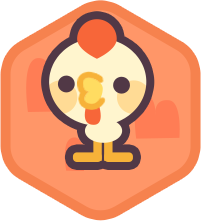
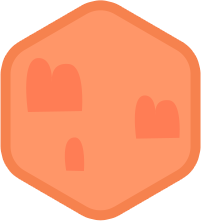
花朵格子拆分

Changed region(s): [[0.1791, 0.0271, 0.7761, 0.7873]]

diff --git a/style.css b/style.css
@@ -405,6 +405,32 @@ body::before {
   pointer-events: none;
 }
 
+.tile__image-stack {
+  position: relative;
+  display: block;
+  width: 100%;
+  height: 100%;
+}
+
+.tile__image--base {
+  object-fit: fill;
+}
+
+.tile__image--layer {
+  position: absolute;
+  inset: 0;
+}
+
+.tile__image--flower {
+  z-index: 1;
+  width: 82%;
+  height: auto;
+  inset: calc(10% - 10px) auto auto 50%;
+  transform: translateX(-50%);
+  object-fit: contain;
+  transform-origin: top center;
+}
+
 .tile--start .tile__ring {
   opacity: 0;
   transform: scale(1.03);

diff --git a/app.js b/app.js
@@ -38,6 +38,7 @@ const tileAssetMap = {
   enemy: "./assets/tiles/tile-enemy.png",
   flower: "./assets/tiles/tile-flower.png",
 };
+const flowerOverlayAsset = "./assets/tiles/flower_01.png";
 const collectFeedbackConfig = {
   flyDuration: 1000,
   launchInterval: 140,
@@ -1401,6 +1402,19 @@ function getTileAsset(tileState) {
   return tileAssetMap[getTileVisualType(tileState)] ?? tileAssetMap.hidden;
 }
 
+function getTileVisualMarkup(tileState, fallbackAsset) {
+  if (tileState?.revealed && tileState.type === "flower") {
+    return `
+      <span class="tile__image-stack tile__image-stack--flower">
+        <img class="tile__image tile__image--base" src="${tileAssetMap.empty}" alt="" />
+        <img class="tile__image tile__image--layer tile__image--flower" src="${flowerOverlayAsset}" alt="" />
+      </span>
+    `;
+  }
+
+  return `<img class="tile__image" src="${fallbackAsset}" alt="" />`;
+}
+
 function getCurrentTileId() {
   if (gameState.currentPath.length === 0) {
     return gameState.currentStartTileId;
@@ -1555,10 +1569,10 @@ function createTileElement(tile) {
         <img class="tile__image" src="${tileAssetMap.hidden}" alt="" />
       </span>
       <span class="tile__face tile__face--back" aria-hidden="true">
-        <img class="tile__image" src="${tileAsset}" alt="" />
+        ${getTileVisualMarkup(state, tileAsset)}
       </span>
     `
-    : `<img class="tile__image" src="${tileAsset}" alt="" />`;
+    : getTileVisualMarkup(state, tileAsset);
 
   button.innerHTML = `
     <span class="tile__ring" aria-hidden="true"></span>

diff --git a/A-PLN.md b/A-PLN.md
@@ -1,0 +1,108 @@
+# A-PLN 记录
+
+## 项目文档现状
+- 项目路径：`/Users/vvvvv/Desktop/个人项目/Collection`
+- 已存在：`B-COD.md`、`B-FIX.md`
+- 当前缺失：`A-PLN.md`（本轮新建）、`A-SRC.md`、`A-ASK.md`、`C-EYE.md`、`C-EDU.md`
+
+## NotebookLM 前置结论
+- 已询问 NotebookLM：希望获取“把小花格子从单张图改为 `tile-empty.png + flower_01.png` 双层叠加、且不改玩法/数据结构”的项目级建议。
+- 结果：当前 notebook 只有通用 HTML5 UI 资料，回答持续偏题，未能提供可靠项目结论。
+- 已继续追问缺失资料；NotebookLM 仍未返回有效、贴合当前项目的资料清单。
+- 因此本轮计划以**项目内现有代码与文档**为准，不把 notebook 回答当作实施依据。
+
+## 本轮任务定义
+- 任务 ID：`A-PLN-ART-TILE-FLOWER-01`
+- 目标：将当前 `flower` 格子的显示资源从单张 `tile-flower.png` 改为双层拼装：
+  - 底图：`assets/tiles/tile-empty.png`
+  - 前景：`assets/tiles/flower_01.png`
+- 边界：
+  - 不改玩法逻辑
+  - 不改 `tileState.type` / `tileTypeCounts` / 随机分布
+  - 不改交互判定、路径、数值、音效链路
+  - 只改资源呈现方式与相关最小样式
+
+## 已确认的项目内现状
+- `app.js:35-40`
+  - 当前 `tileAssetMap.flower = "./assets/tiles/tile-flower.png"`
+- `app.js:1400-1402`
+  - `getTileAsset()` 仍按单张图返回资源路径
+- `app.js:1493-1575`
+  - `createTileElement()` 当前通过单个 `<img class="tile__image">` 渲染格子图
+- `style.css:398-405`
+  - `.tile__image` 已是统一图片节点入口，适合扩展为“底图 + 前景”双图层
+- 资源目录现状：
+  - 已存在 `assets/tiles/tile-empty.png`
+  - 已存在 `assets/tiles/tile-flower.png`
+  - 已存在 `assets/tiles/flower_01.png`
+- 结论：
+  - 当前 `flower_01.png` 已入库但未接入显示
+  - 本次最小改法应集中在 `createTileElement()` + 对应 CSS，不必改数据结构
+
+## 主框架任务（先做）
+### 模块 M1：小花格子显示改为双层拼装
+- 负责人类型：`@B-COD`
+- 主导权：仅 `@B-COD`
+- 依赖：无
+- 实施建议：
+  1. 保留 `flower` 作为逻辑类型，不改 `tileAssetMap` 的其它类型
+  2. 在 `createTileElement()` 中，对 `revealed && state.type === "flower"` 走单独渲染分支
+  3. 输出结构建议：
+     - `<img class="tile__image tile__image--base" src="./assets/tiles/tile-empty.png">`
+     - `<img class="tile__image tile__image--flower" src="./assets/tiles/flower_01.png">`
+  4. 非 `flower` 类型继续沿用当前单图渲染链路
+- 完成判定：
+  - 花格只在显示层改为双图叠加
+  - `empty / hidden / enemy` 显示不回归
+  - `flower` 的逻辑行为与当前一致
+- 是否需要人工检查：是
+
+## 跟进模块（M1 后做）
+### 模块 M2：视觉回归与最小样式校正
+- 负责人类型：`@B-FIX`
+- 主导权：仅 `@B-FIX`
+- 依赖：M1 完成后再接
+- 检查点：
+  - `flower_01.png` 是否居中
+  - 是否因透明留白导致视觉偏上/偏下
+  - 与 `tile-empty.png` 叠加后是否出现白边、拉伸、锯齿
+  - 翻牌态 `tile--flipping` 前后两面是否都正确显示花层
+- 完成判定：
+  - 人眼对比下，小花格子稳定显示为“草地 + 花”
+  - 不出现 hover/path/start/fail 等状态把花层遮掉的情况
+- 是否需要人工检查：是
+
+## 不在本轮范围内
+- 删除 `tile-flower.png`
+- 改动地图布局、镜头留白、危险数字样式
+- 新增动画、粒子、额外反馈
+- 改 atlas / 改资源打包策略
+
+## 建议实现口径
+- 优先最小改动，不新增新的逻辑 type
+- 若要避免硬编码，可新增常量：
+  - `const flowerOverlayAsset = "./assets/tiles/flower_01.png";`
+- 若翻牌正反面都需要支持双层，建议把“花格 inner HTML”抽成小函数，避免正面/背面模板重复改漏
+
+## 验收标准
+1. 调试模式或正常游玩时，所有 `flower` 格都显示为：草地底图 + 小花前景
+2. `empty` 格仍只显示 `tile-empty.png`
+3. 进入 `flower` 格仍正常加花蜜、触发现有飞花/Combo/音效
+4. `node --check app.js` 通过
+5. 浏览器人工检查通过以下场景：
+   - 普通 revealed 花格
+   - 翻牌中的花格前后面
+   - 路径高亮中的花格
+   - 调试模式下多花格并列显示
+
+## 当前阶段 handoff
+- 任务 ID：`A-PLN-ART-TILE-FLOWER-01`
+- 目标：把 `flower` 格从单张 `tile-flower.png` 改为 `tile-empty.png + flower_01.png` 双层显示
+- 当前状态：已完成项目内定位与拆解，等待 `@B-COD` 实施
+- 下一步：
+  1. `@B-COD` 先改 `app.js` / `style.css`
+  2. 自检 `node --check app.js`
+  3. 回流 `@B-FIX` 做视觉回归
+- 阻塞：
+  - NotebookLM 当前无项目专属资料，无法给出 notebook-grounded 建议
+  - 仍需浏览器人工查看 `flower_01.png` 的最终叠放位置是否符合预期

diff --git a/B-FIX.md b/B-FIX.md
@@ -188,6 +188,34 @@
 - `style.css` 中对应文本徽标样式定义仍保留，但当前已无起点文本 DOM 引用
 - 原因：本轮先做最小移除，避免连带影响其他潜在 badge 用途
 
+## 本轮新增修复：按参考图重调花层位置与大小，并消除形变
+### 复现条件
+- 当前 flower 格已切到“双层资源叠加”，但前景花看起来被拉长、位置偏满，和参考图中的花大小与锚点不一致
+
+### 根因判断
+- 通用 `.tile__image` 规则对所有图片统一使用 `width: 100%`、`height: 100%`、`object-fit: fill`
+- 该规则适合完整地块底图，不适合 `flower_01.png` 这种独立前景素材
+- `flower_01.png` 实际尺寸为 `165 x 160`，被强行拉伸到 tile 的 `112 x 124` 比例后，会产生非等比形变
+
+### 已执行修复
+- 保持底图 `tile-empty.png` 继续铺满整格
+- 单独覆盖 `.tile__image--flower`：
+  - 改为按素材比例显示，使用 `height: auto` + `object-fit: contain`
+  - 缩小到约 `82%` 宽度，避免花层占满整格
+  - 调整到格子上半部居中偏上的锚点，贴近参考图观感
+
+### 本轮改了哪些文件
+- `style.css`
+- `B-FIX.md`
+
+### 最小验证
+- `node --check app.js` 通过
+- 静态复核确认：flower 前景层不再沿用整格拉伸规则，底图与前景已分离使用不同缩放策略
+
+### 本轮未修问题
+- 浏览器人工对照参考图的最终位置与大小尚未逐帧确认
+- 原因：当前会话未直接打开浏览器做视觉验收；本轮先完成样式层修正与静态校验
+
 ## 给 B-COD 的提醒
 - 不要继续在 `.tile__inner` 上叠加旧占位风格描边
 - 不要再用 `background` 简写覆盖贴图

diff --git a/B-COD.md b/B-COD.md
@@ -1,12 +1,16 @@
 # B-COD 记录
 
 ## Claim
-- 任务 ID：B-COD-DEMO-FEEDBACK-003
-- 当前 claim：模块《花朵采集连击反馈（Combo System）》
-- 范围：接入全局 Combo UI、按采花累计的连击状态、2.5 秒超时结束、升级音效与强化档样式；不改收益数值、飞花主逻辑、移动端专项适配
+- 任务 ID：A-PLN-ART-TILE-FLOWER-01
+- 当前 claim：模块 M1《小花格子双层资源叠加显示》
+- 范围：仅修改 flower 格显示层，将单张 `tile-flower.png` 改为 `tile-empty.png + flower_01.png` 双层渲染；不改玩法逻辑、数据结构、类型定义、判定与音效链路
 - 历史 claim 已闭环：`B-COD-DEMO-FEEDBACK-001`（花朵采集反馈）、`B-COD-DEMO-FEEDBACK-002`（自定义光标）、`B-COD-DEMO-FEEDBACK-002-A`（光标资源接入）、`SFX-01`（翻格音效）、`SFX-02`（撞天敌音效）、`FX-01`（采集范围高亮）、`B-COD-DEMO-AUDIO-001`（主背景 BGM 接入）、`FX-02`（起点格子强化标识）、`RULE-01`（取消起点继承 + 自由选择起点）、`RULE-02`（蜜蜂消耗保护机制）、`RULE-03 / FX-03`（删除固定起点 UI + 非法点击反馈）
 
 ## 实现记录
+- 本轮新增 `flowerOverlayAsset` 常量，指向 `./assets/tiles/flower_01.png`，作为 flower 格前景资源入口
+- 本轮新增 `getTileVisualMarkup(tileState, fallbackAsset)`：仅对 `revealed && type === "flower"` 输出双层结构，其它格保持原单图渲染
+- `createTileElement()` 的静态态与翻牌背面态，现统一复用 `getTileVisualMarkup()`；普通花格与翻牌中的花格都会显示为 `tile-empty.png + flower_01.png`
+- 本轮新增样式 `.tile__image-stack / .tile__image--layer / .tile__image--flower`，用于双层图片叠放；未改路径高亮、起点、失败等状态 class 逻辑
 - 新建最小静态前端文件：`index.html`、`style.css`、`app.js`
 - 页面包含 HUD 占位：总花蜜、本轮暂存花蜜、剩余蜜蜂数
 - 19 格盘面按 `2 / 2 / 3 / 3 / 3 / 3 / 2 / 1` 行结构由配置生成，不写死在 DOM
@@ -152,6 +156,9 @@
 
 ## 验证记录
 - 已做：
+  0. 针对 flower 显示层改动执行 `node --check app.js`，语法通过
+  0. 代码级确认：非 flower 类型仍走原单图 `<img class="tile__image">` 渲染分支
+  0. 代码级确认：flower 格在普通 revealed 与 `tile--flipping` 背面态均走双层渲染分支
   1. `node --check app.js` 通过语法检查
   2. Node 循环 200 次验证：每局始终满足 `3 enemy / 8 flower / 8 empty`
   3. Node 循环验证：`T18` 从不生成 `enemy`
@@ -217,5 +224,6 @@
    24. 反复进入/结束 Combo，并切换标签页再回来，确认状态不残留、位置不乱跳
 
 ## 协作需求
+- 本模块 M1 已可交给 `B-FIX` 做视觉回归，重点检查：花层居中、透明边、翻牌前后、路径高亮 / 起点 / 失败状态是否遮挡前景花层
 - 默认可交给 `B-FIX` 做浏览器实机回归：Combo 浮层跟随最新采花格、强化档视觉、2.5 秒结束渐隐、音效节流，以及与飞花 / 自定义光标 / BGM 的并存观感
 - 本模块完成后建议回流 `@A-PLN` 做阶段收口；若先做人眼验收，也可先交 `A-ASK` / 用户按上方步骤检查，再决定是否补第二轮爽感优化